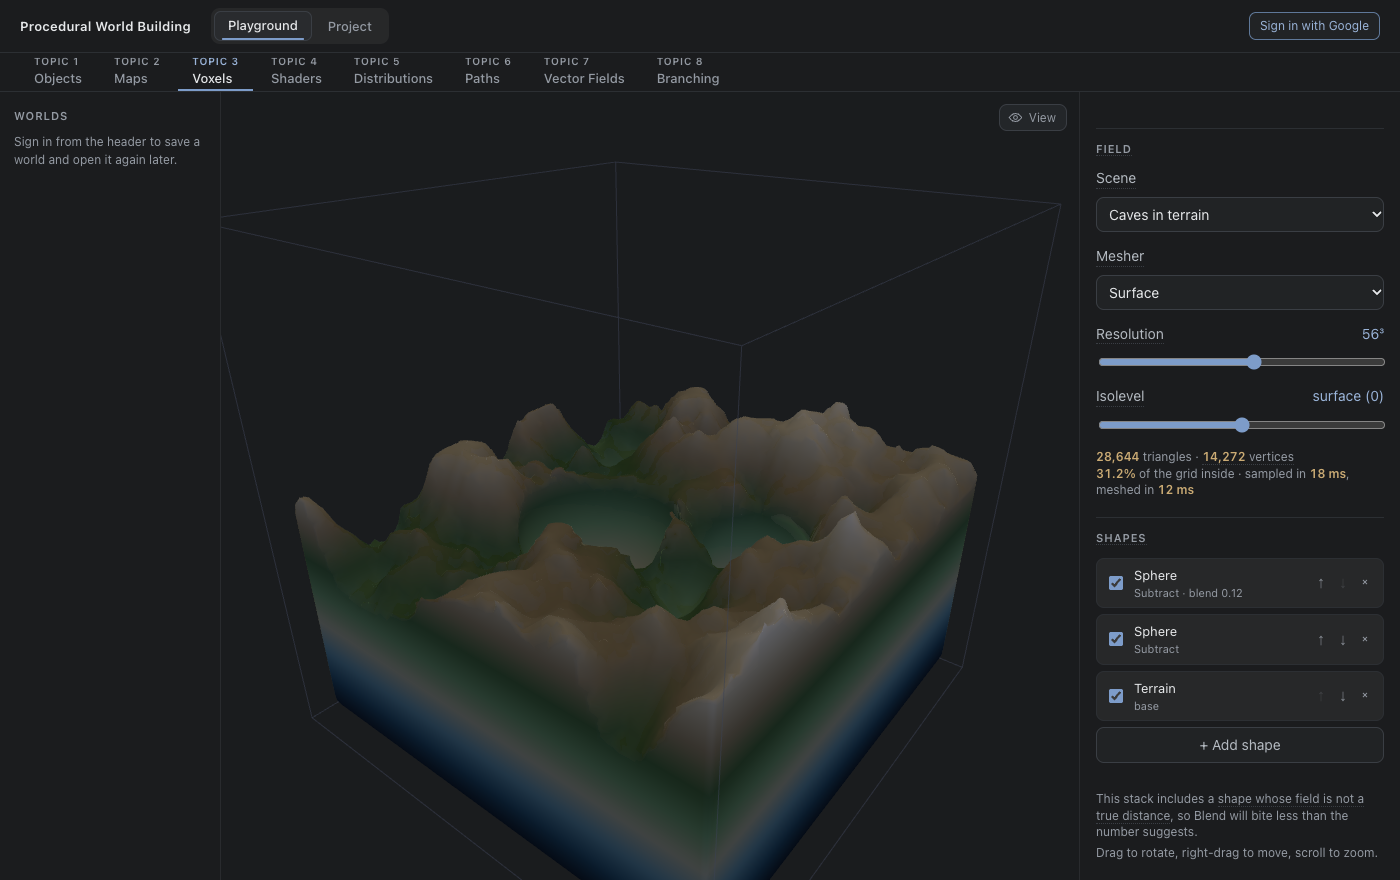
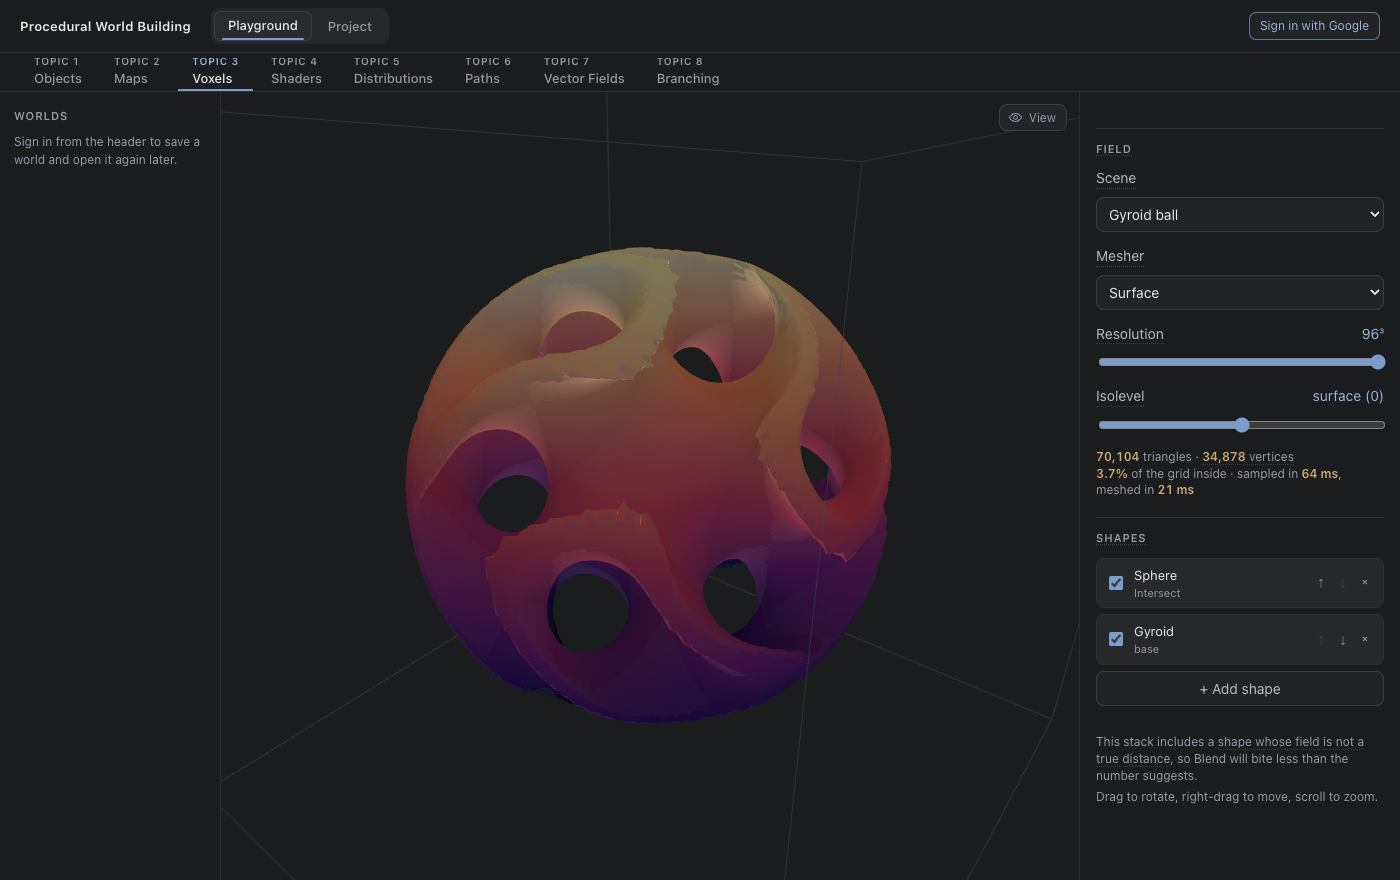
README: moving seasons and inhabitants; a matching Topic 7, a better Topic 3
Seasons: the 2x2 still looked empty -- the camera stood back, so the leaf
colours were small and the snow a pixel or two. Re-captured close on the
tower of a grown world (a hanging pod, a suspended walkway, inhabitants)
from inside the weather's volume, so nearby flakes and leaves draw
larger, and made a GIF that plays the four seasons in turn at full width
(1.07 MB, 80 frames, one 128-colour palette, no dither -- dithering
tripled the size). A 2x2 grid of looping panels was tried first: at half
size the snow was lost again. The still for play.md is re-captured from
the same clips.

Inhabitants: a GIF of the four coats in the four animations (417 KB;
the page's title card is hidden for the capture, since it showed behind
the figures) and one of two crossing a bridge with the camera following
and the inspector counting down beside it (1.12 MB at 640 px; 2 MB at
880). The static inspector PNG is retired.

Playground: Topic 7 re-captured as a full page at 1400x880 like the
others (it was an 858x788 viewport crop); Topic 3 now shows the Gyroid
ball at 96^3 in Magma -- one field, intersected -- instead of the terrain.

docs/images is now 14 MB, over its single-digit budget (12 MB before).

diff --git a/README.md b/README.md
@@ -58,14 +58,16 @@ colour, sky, rain, snow, brown leaves falling where plants wither. Tuned over
 ten seeds so the goal comes as often as before, with winter costing about a
 third of the plants and spring growing them back.
 
-![The same world in spring, summer, autumn and winter](docs/images/play-seasons.jpg)
+![One world through the year, close on a tower with a hanging pod and a suspended walkway: fresh green in spring, deep green in summer, red-orange leaves and a warm sky in autumn, a cool cast with snow falling and brown leaves dropping in winter — inhabitants walking on the walkway throughout](docs/images/readme-seasons.gif)
 
 **Inhabitants.** Small creatures live on the green: they walk only where
 plants grow or on mature living architecture, so two buildings are separate
 worlds to them until the plants join them, and a maturing bridge is a route
 they go and discover. They make the consequences of growth visible.
 
-![The Inhabitants studio: two inhabitants on a living bridge, one labelled Exploring, and the inspector showing the other travelling across it, 51 cells from the east building](docs/images/readme-inhabitants.png)
+![The four coats, each in one of the four animations: Moss idle, Lichen walking, Blossom discovering, Bark puzzled](docs/images/readme-inhabitants-poses.gif)
+
+![The Inhabitants studio: two inhabitants walking across a living bridge, the camera following, while the inspector beside it counts down the cells left to the east building](docs/images/readme-inhabitants-crossing.gif)
 
 Worlds can be saved and reopened, signed in, as state rather than a picture —
 a loaded world carries on growing exactly as it would have.
@@ -112,7 +114,7 @@ chapter in [`docs/topics/`](docs/topics/).
 <td width="50%" valign="top"><a href="docs/topics/topic-2-maps.md"><img src="docs/images/readme-topic-2-noise.png" alt="Topic 2: the Noise tab on the Mountains preset"></a><br><b><a href="docs/topics/topic-2-maps.md">2 · Maps</a></b> — noise into ground: layered noise shaped and warped, then an automaton and droplet erosion. The default stack measures a Hurst exponent of 0.75.</td>
 </tr>
 <tr>
-<td valign="top"><a href="docs/topics/topic-3-voxels.md"><img src="docs/images/readme-topic-3-voxels.png" alt="Topic 3: a voxel terrain with caves subtracted, meshed with surface nets"></a><br><b><a href="docs/topics/topic-3-voxels.md">3 · Voxels</a></b> — solids as distance fields joined by CSG, meshed four ways; dual contouring cuts corner error from 23.8% of a cell to 1.2%.</td>
+<td valign="top"><a href="docs/topics/topic-3-voxels.md"><img src="docs/images/readme-topic-3-voxels.png" alt="Topic 3: a gyroid intersected with a sphere, its tunnels opening all over the surface, in the Magma palette"></a><br><b><a href="docs/topics/topic-3-voxels.md">3 · Voxels</a></b> — solids as distance fields joined by CSG, meshed four ways; dual contouring cuts corner error from 23.8% of a cell to 1.2%.</td>
 <td valign="top"><a href="docs/topics/topic-4-shaders.md"><img src="docs/images/readme-topic-4-shaders.png" alt="Topic 4: a matte eroded terrain with the strategy selector"></a><br><b><a href="docs/topics/topic-4-shaders.md">4 · Shaders</a></b> — eight surface shaders on one terrain, and four GPU simulations: ripples, reaction–diffusion, pipe erosion, fish schooling.</td>
 </tr>
 <tr>

diff --git a/docs/project/play.md b/docs/project/play.md
@@ -177,10 +177,12 @@ season's line says.
 
 ## What the seasons look like
 
-![The same world in spring, summer, autumn and winter](../images/play-seasons.jpg)
+![The same world in spring, summer, autumn and winter, close on a tower with a hanging pod, a suspended walkway and inhabitants](../images/play-seasons.jpg)
 
-*One world through its first year, captured from the game: spring (step 468),
-summer (881), autumn (1,383), winter (1,617).*
+*One world, captured from the game close up, so the leaves and weather show:
+spring of its second year (step 2,240), then summer (about step 800), autumn
+(1,240) and winter (1,690) of its first. The README has the same four as a
+moving loop — snow, rain and falling leaves included.*
 
 The weather changed the growth but, apart from the sun's direction, nothing
 you could see. Now the scene follows the season too (`seasonLook.ts`, drawn

diff --git a/docs/topics/topic-3-voxels.md b/docs/topics/topic-3-voxels.md
@@ -6,7 +6,7 @@ triangles four different ways.
 
 [← back to the README](../../README.md) · [study notebook index](../README.md)
 
-![The Topic 3 page: a terrain solid with caves subtracted, the shape stack and mesher controls in the sidebar](../images/readme-topic-3-voxels.png)
+![The Topic 3 page: the Gyroid ball scene — a gyroid intersected with a sphere, so its tunnels open all over the surface — at 96³ with the Magma palette, the shape stack and mesher controls in the sidebar](../images/readme-topic-3-voxels.png)
 
 ## Contents
 

diff --git a/docs/topics/topic-7-vector-fields.md b/docs/topics/topic-7-vector-fields.md
@@ -10,7 +10,7 @@ drag of the mouse stirs it.
 
 [← back to the README](../../README.md) · [study notebook index](../README.md)
 
-![The Topic 7 viewport: particle trails flowing left to right and curling around six vortices, blue-white on a dark ground](../images/readme-topic-7-flow.jpg)
+![The Topic 7 page: particle trails flowing left to right and curling around six vortices, blue-white on a dark ground, with the field and particle controls in the sidebar](../images/readme-topic-7-flow.jpg)
 
 ## Contents
 
